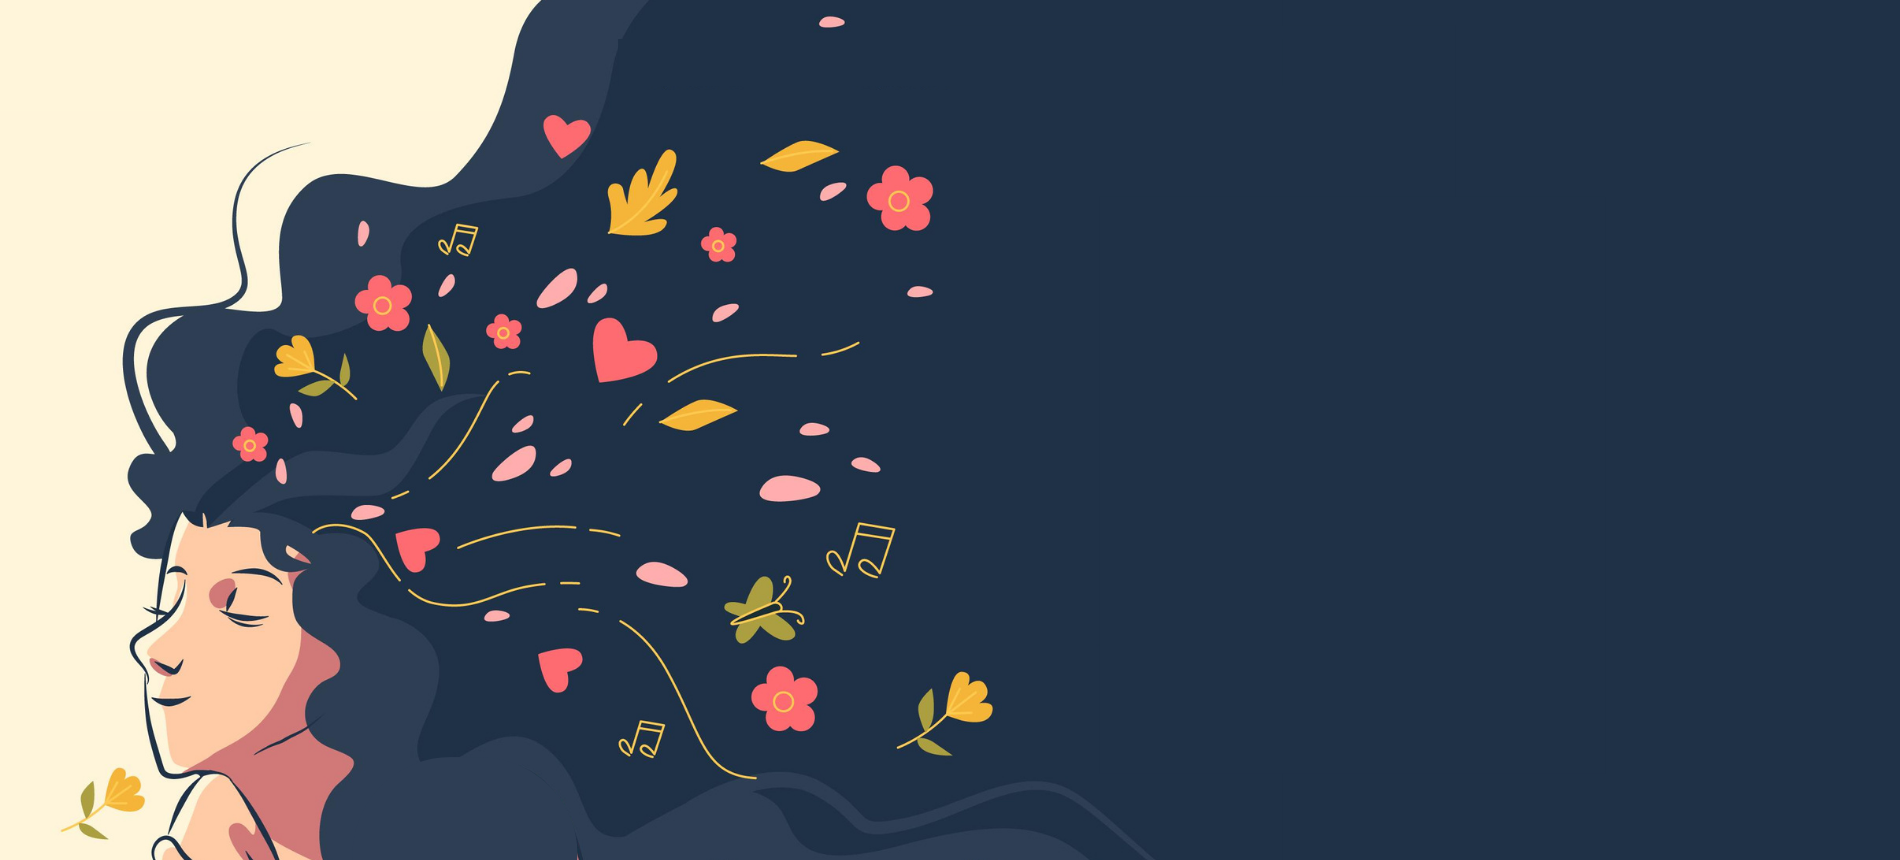
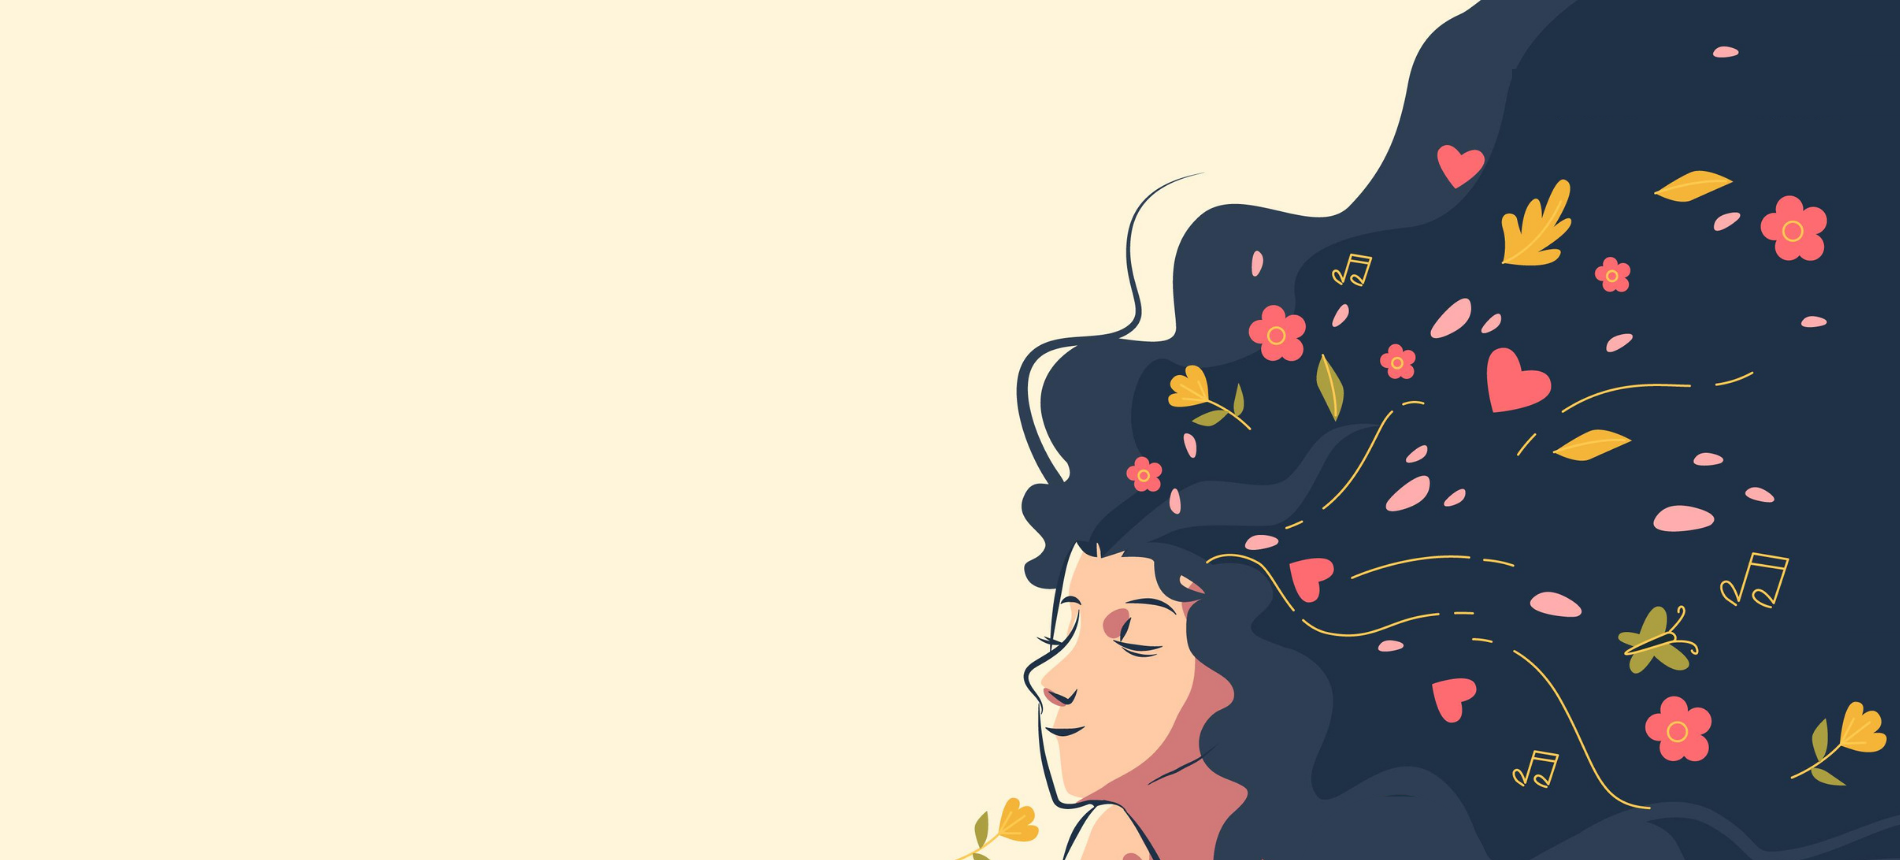
user section

diff --git a/frontendRoles/src/components/User/UserSection.jsx b/frontendRoles/src/components/User/UserSection.jsx
@@ -1,11 +1,13 @@
-import React, { useState ,useEffect} from "react";
+import React, { useState, useEffect } from "react";
 import { useNavigate } from "react-router-dom";
 import { FiUser, FiMessageCircle, FiAlertCircle } from "react-icons/fi";
+import { BsInfoCircle } from "react-icons/bs";
 import Header from "../Home/Header";
 import Bg from "./bg3.png";
 import ReportMessage from "../Admin/ReportMessage";
 import Quotes from "./QuoteCarousel";
-// import { useNavigate } from "react-router-dom";
+import AdminDetails from "./AdminDetails";
+import ViewProfile from "./ViewProfile";
 
 const quotes = [
   "Just as you prioritize your physical health, remember to nurture your mental well-being daily.",
@@ -18,10 +20,26 @@ const quotes = [
 const UserSection = () => {
   const navigate = useNavigate();
   const [showReportModal, setShowReportModal] = useState(false);
+  const [showAdminData, setShowAdminData] = useState(false);
+  const [showProfile, setShowProfile] = useState(false);
 
   const handleReportClick = () => {
     setShowReportModal(true);
   };
+
+  const adminData = () => {
+    setShowAdminData(true);
+  };
+  const closeAdminData = () => {
+    setShowAdminData(false);
+  };
+
+  const viewProfileClicked = () => {
+    setShowProfile(true);
+  }
+  const closeProfile = () => {
+    setShowProfile(false);
+  }
   useEffect(() => {
     const token = localStorage.getItem("token");
     if (!token) {
@@ -42,51 +60,51 @@ const UserSection = () => {
     <>
       <Header />
       <div
-        className="flex flex-col h-screen bg-blue-200 font-montserrat"
+        className="flex flex-col h-screen font-montserrat"
         style={{ backgroundImage: `url(${Bg})`, backgroundSize: "cover" }}
       >
-        <div className="w-1/2 ml-auto">
-        <div className="h-5/6">
-          <div className="flex justify-between mt-20 items-center h-1/5 w-full mx-auto ">
-            {/* <div className="flex items-center justify-center ">
-              <h1 className="text-6xl text-white font-bold">Hello, User!</h1>
-            </div> */}
-            {/* <div className="flex items-center justify-center ">
-              <div className="w-16 h-16 rounded-full overflow-hidden">
-                <img
-                  src=""
-                  alt="User Pic"
-                  className="w-full h-full object-cover"
-                />
+        <div className="w-1/2 mr-auto">
+          <div className="">
+            <div className="flex flex-col justify-between mt-36 items-center h-2/5 w-full mx-auto ">
+              <div className="flex items-center justify-center ">
+                <h1 className="text-6xl text-user-btns-dark font-bold">
+                  Hello, User!
+                </h1>
               </div>
-            </div> */}
+              <div className="h-1/6 mb-6 w-4/6 mx-auto">
+                <Quotes quotes={quotes} />{" "}
+              </div>
+            </div>
+            <div className="h-3/5 flex flex-wrap justify-around w-10/12 mx-auto rounded-xl mt-10">
+              <button onClick={viewProfileClicked} className="min-w-60 flex-col items-center w-2/5 mb-4 mx-auto h-32 py-4 px-8  bg-user-btns text-white rounded-xl hover:bg-user-btns-dark hover:scale-105 hover:shadow-lg transition duration-300 ease-in-out">
+                <FiUser className="text-6xl mb-2 mx-auto" />
+                <div className="text-xl font-medium">View Profile</div>
+              </button>
+              <button
+                onClick={() => {
+                  navigate("/ChatBot");
+                }}
+                className="min-w-60 flex-col items-center w-2/5 mb-4 mx-auto py-4 px-8  h-32 bg-user-btns text-white rounded-xl hover:bg-user-btns-dark hover:scale-105 hover:shadow-lg transition duration-300 ease-in-out"
+              >
+                <FiMessageCircle className="text-6xl mb-2 mx-auto" />
+                <div className="text-xl font-medium">Start Survey</div>
+              </button>
+              <button
+                onClick={handleReportClick}
+                className="min-w-60 flex-col items-center w-2/5 mb-4 mx-auto py-4 px-8 h-32 bg-user-btns text-white rounded-xl hover:bg-user-btns-dark hover:scale-105 hover:shadow-lg transition duration-300 ease-in-out"
+              >
+                <FiAlertCircle className="text-6xl mb-2 mx-auto" />
+                <div className="text-xl font-medium">Send SOS</div>
+              </button>
+              <button
+                onClick={adminData}
+                className="min-w-60 flex-col items-center w-2/5 mb-4 mx-auto py-4 px-8 h-32 bg-user-btns text-white rounded-xl hover:bg-user-btns-dark hover:scale-105 hover:shadow-lg transition duration-300 ease-in-out"
+              >
+                <BsInfoCircle className="text-6xl mb-2 mx-auto" />
+                <div className="text-xl font-medium">Admin Details</div>
+              </button>
+            </div>
           </div>
-          <div className="h-4/5 flex flex-col justify-around  w-10/12 mx-auto rounded-xl mt-6">
-            <button className="min-w-60 flex-col items-center w-1/2 mb-4 mx-auto h-32 py-4 px-8 bg-yellow-400 text-gray-800 border-2 border-gray-800 rounded-xl hover:bg-yellow-500 transition duration-300 ease-in-out">
-              <FiUser className="text-6xl mb-2 mx-auto" />
-              <div className="text-xl font-medium">Profile</div>
-            </button>
-            <button
-              onClick={() => {
-                navigate("/ChatBot");
-              }}
-              className="min-w-60 flex-col items-center w-1/2 mb-4 mx-auto py-4 px-8 h-32 bg-green-400 text-gray-800 border-2 border-gray-800 rounded-xl hover:bg-green-500 transition duration-300 ease-in-out"
-            >
-              <FiMessageCircle className="text-6xl mb-2 mx-auto" />
-              <div className="text-xl font-medium">Start Survey</div>
-            </button>
-            <button
-              onClick={handleReportClick}
-              className="min-w-60 flex-col items-center w-1/2 mb-4 mx-auto py-4 px-8 h-32 bg-red-400 text-gray-800 border-2 border-gray-800 rounded-xl hover:bg-red-500 transition duration-300 ease-in-out"
-            >
-              <FiAlertCircle className="text-6xl mb-2 mx-auto" />
-              <div className="text-xl font-medium">SOS</div>
-            </button>
-          </div>
-        </div>
-        {/* <div className="bg-white h-1/6 mb-6 w-1/2 mx-auto">
-          <Quotes quotes={quotes} />{" "}
-        </div> */}
         </div>
       </div>
       {/* Report Modal */}
@@ -96,6 +114,10 @@ const UserSection = () => {
           onSubmit={handleReportSubmit}
         />
       )}
+      {/* Admin Data */}
+      {showAdminData && <AdminDetails onClose={closeAdminData} />}
+      {/* View Profile */}
+      {showProfile && <ViewProfile onClose={closeProfile}/>}
     </>
   );
 };

diff --git a/frontendRoles/src/components/User/ViewProfile.jsx b/frontendRoles/src/components/User/ViewProfile.jsx
@@ -1,0 +1,99 @@
+import React from "react";
+import { useNavigate } from "react-router-dom";
+import ProfileUpdatePage from "../Auth/UpdateProfile";
+
+const ViewProfile = ({ onClose }) => {
+  const navigate = useNavigate();
+  const sampleUser = {
+    name: "John Doe",
+    gender: "Male",
+    contactNumber: "+1234567890",
+    dateOfBirth: "1990-01-01",
+    degreeType: "Bachelor",
+    department: "Computer Science",
+    semester: "5",
+    rollNumber: "CS12345",
+    hostelName: "ABC Hostel",
+    hostelRoomNumber: "101",
+    relationshipStatus: "Single",
+  };
+
+  return (
+    <div className="fixed inset-0 flex items-center justify-center font-montserrat bg-gray-800 bg-opacity-75 z-50">
+      <div className="bg-white w-1/3 p-6 rounded-lg">
+        <div className="flex justify-between items-center mb-4">
+          <h2 className="text-lg font-semibold uppercase underline">
+            Your Profile
+          </h2>
+          <button onClick={onClose}>
+            <svg
+              xmlns="http://www.w3.org/2000/svg"
+              className="h-6 w-6 text-gray-600 hover:text-gray-800 cursor-pointer"
+              fill="none"
+              viewBox="0 0 24 24"
+              stroke="currentColor"
+            >
+              <path
+                strokeLinecap="round"
+                strokeLinejoin="round"
+                strokeWidth="2"
+                d="M6 18L18 6M6 6l12 12"
+              />
+            </svg>
+          </button>
+        </div>
+        <div>
+          <p>
+            <span className="font-semibold">Name:</span> {sampleUser.name}
+          </p>
+          <p>
+            <span className="font-semibold">Gender:</span> {sampleUser.gender}
+          </p>
+          <p>
+            <span className="font-semibold">Contact Number:</span>{" "}
+            {sampleUser.contactNumber}
+          </p>
+          <p>
+            <span className="font-semibold">Date of Birth:</span>{" "}
+            {sampleUser.dateOfBirth}
+          </p>
+          <p>
+            <span className="font-semibold">Degree Type:</span>{" "}
+            {sampleUser.degreeType}
+          </p>
+          <p>
+            <span className="font-semibold">Department:</span>{" "}
+            {sampleUser.department}
+          </p>
+          <p>
+            <span className="font-semibold">Semester:</span>{" "}
+            {sampleUser.semester}
+          </p>
+          <p>
+            <span className="font-semibold">Roll Number:</span>{" "}
+            {sampleUser.rollNumber}
+          </p>
+          <p>
+            <span className="font-semibold">Hostel Name:</span>{" "}
+            {sampleUser.hostelName}
+          </p>
+          <p>
+            <span className="font-semibold">Hostel Room Number:</span>{" "}
+            {sampleUser.hostelRoomNumber}
+          </p>
+          <p>
+            <span className="font-semibold">Relationship Status:</span>{" "}
+            {sampleUser.relationshipStatus}
+          </p>
+        </div>
+        <div>
+          <button onClick={() => {navigate("/ProfileUpdatePage")}} className="bg-blue-500 text-white rounded-lg px-4 py-1 mt-2 w-full">
+            Edit Details
+          </button>
+        </div>
+      </div>
+    </div>
+  );
+};
+
+export default ViewProfile;

diff --git a/frontendRoles/src/components/User/AdminDetails.jsx b/frontendRoles/src/components/User/AdminDetails.jsx
@@ -1,0 +1,80 @@
+import React, { useState } from "react";
+import ReportMessage from "../Admin/ReportMessage";
+
+const AdminDetails = ({ onClose }) => {
+  const [showReportModal, setShowReportModal] = useState(false);
+
+  const adminData = {
+    name: "John Doe",
+    email: "john.doe@example.com",
+    number: "+1234567890",
+  };
+
+  const handleReportClick = () => {
+    setShowReportModal(true);
+  };
+  const handleCloseReportModal = () => {
+    setShowReportModal(false);
+  };
+
+  const handleReportSubmit = (comment) => {
+    console.log("Report submitted with comment:", comment);
+    // axios.post('')
+    setShowReportModal(false);
+  };
+  return (
+    <div className="fixed inset-0 flex items-center justify-center font-montserrat bg-gray-800 bg-opacity-75 z-40">
+      <div className="bg-white w-96 p-6 rounded-lg">
+        <div className="flex justify-between items-center mb-4">
+          <h2 className="text-lg font-semibold uppercase underline">Admin Details</h2>
+          <button onClick={onClose}>
+            <svg
+              xmlns="http://www.w3.org/2000/svg"
+              className="h-6 w-6 text-gray-600 hover:text-gray-800 cursor-pointer"
+              fill="none"
+              viewBox="0 0 24 24"
+              stroke="currentColor"
+            >
+              <path
+                strokeLinecap="round"
+                strokeLinejoin="round"
+                strokeWidth="2"
+                d="M6 18L18 6M6 6l12 12"
+              />
+            </svg>
+          </button>
+        </div>
+        <div>
+          <p className="text-gray-700">
+            <span className="font-semibold">Name:</span> {adminData.name}
+          </p>
+          <p className="text-gray-700">
+            <span className="font-semibold">Email:</span> {adminData.email}
+          </p>
+          <p className="text-gray-700">
+            <span className="font-semibold">Number:</span> {adminData.number}
+          </p>
+          <div className="mt-4">
+            <p className="text-red-500 font-semibold">
+              Feeling depressed? Contact admin now.
+            </p>
+            <button
+              className="mt-2 bg-red-600 text-white w-full px-4 py-2 rounded-lg hover:bg-red-700"
+              onClick={handleReportClick}
+            >
+              Send SOS
+            </button>
+          </div>
+        </div>
+      </div>
+      {showReportModal && (
+        <ReportMessage
+          onClose={handleCloseReportModal}
+          onSubmit={handleReportSubmit}
+        />
+      )}
+    </div>
+  );
+};
+
+export default AdminDetails;

diff --git a/frontendRoles/src/components/Admin/ReportMessage.jsx b/frontendRoles/src/components/Admin/ReportMessage.jsx
@@ -12,11 +12,8 @@ const ReportMessage = ({ onClose, onSubmit }) => {
   };
 
   return (
-    <div className="fixed z-10 inset-0 overflow-y-auto font-montserrat">
+    <div className="fixed z-50 inset-0 overflow-y-auto font-montserrat bg-opacity-75 bg-gray-800">
       <div className="flex items-end justify-center min-h-screen pt-4 px-4 pb-20 text-center sm:block sm:p-0">
-        <div className="fixed inset-0 transition-opacity" aria-hidden="true">
-          <div className="absolute inset-0 bg-gray-500 opacity-75"></div>
-        </div>
 
         <span className="hidden sm:inline-block sm:align-middle sm:h-screen" aria-hidden="true">
           &#8203;
@@ -26,7 +23,7 @@ const ReportMessage = ({ onClose, onSubmit }) => {
           <div className="bg-white px-4 pt-5 pb-4 sm:p-6 sm:pb-4">
             <div className="sm:flex ">
               <div className="mt-3 text-center sm:mt-0 sm:text-left w-full">
-                <h3 className="text-lg leading-6 font-medium text-gray-900 mb-4">Remarks</h3>
+                <h3 className="text-lg leading-6 font-medium text-gray-900 mb-4 uppercase underline">Remarks</h3>
                 <div className="mt-2">
                   <textarea
                     className=" w-full h-56 px-4 py-2 border border-gray-300 rounded-md shadow-sm focus:outline-none focus:border-blue-400 resize-none"

diff --git a/frontendRoles/src/App.js b/frontendRoles/src/App.js
@@ -18,6 +18,7 @@ import ForgotPassword from "./components/Auth/ForgotPassword";
 import SuperAdminLogin from "./components/Admin/SuperAdminLogin";
 import Disclaimer from "./components/Home/Disclaimer";
 import UserSection from "./components/User/UserSection";
+import ProfileUpdatePage from "./components/Auth/UpdateProfile";
 // import SuperAdminLogin from "./components/Admin/SuperAdminLogin";
 // import { useNavigate } from "react-router-dom";
 
@@ -82,6 +83,10 @@ function App() {
     {
       path: '/UserSection',
       element: <UserSection/>
+    },
+    {
+      path: '/ProfileUpdatePage',
+      element: <ProfileUpdatePage/>
     }
   ]);
   return (

diff --git a/frontendRoles/src/components/User/QuoteCarousel.jsx b/frontendRoles/src/components/User/QuoteCarousel.jsx
@@ -21,7 +21,7 @@ const QuoteCarousel = ({ quotes }) => {
     <Slider {...settings}>
       {quotes.map((quote, index) => (
         <div key={index}>
-          <h2 className="text-2xl text-center font-medium rounded-2xl py-2 max-w-4xl mx-auto mt-2">
+          <h2 className="text-lg text-user-btns text-center font-medium rounded-2xl py-2 max-w-4xl mx-auto mt-2">
             {quote}
           </h2>
         </div>

diff --git a/frontendRoles/tailwind.config.js b/frontendRoles/tailwind.config.js
@@ -18,7 +18,9 @@ module.exports = {
         'admin-bg': '#F0FABB',
         'home-bg': '#D7AA75',
         'home-btn': '#BF9768',
-        'home-pink': '#FA5A96'
+        'home-pink': '#FA5A96',
+        'user-btns': '#2E3E55',
+        'user-btns-dark': '#1F3147'
     },},
   },
   plugins: [],
